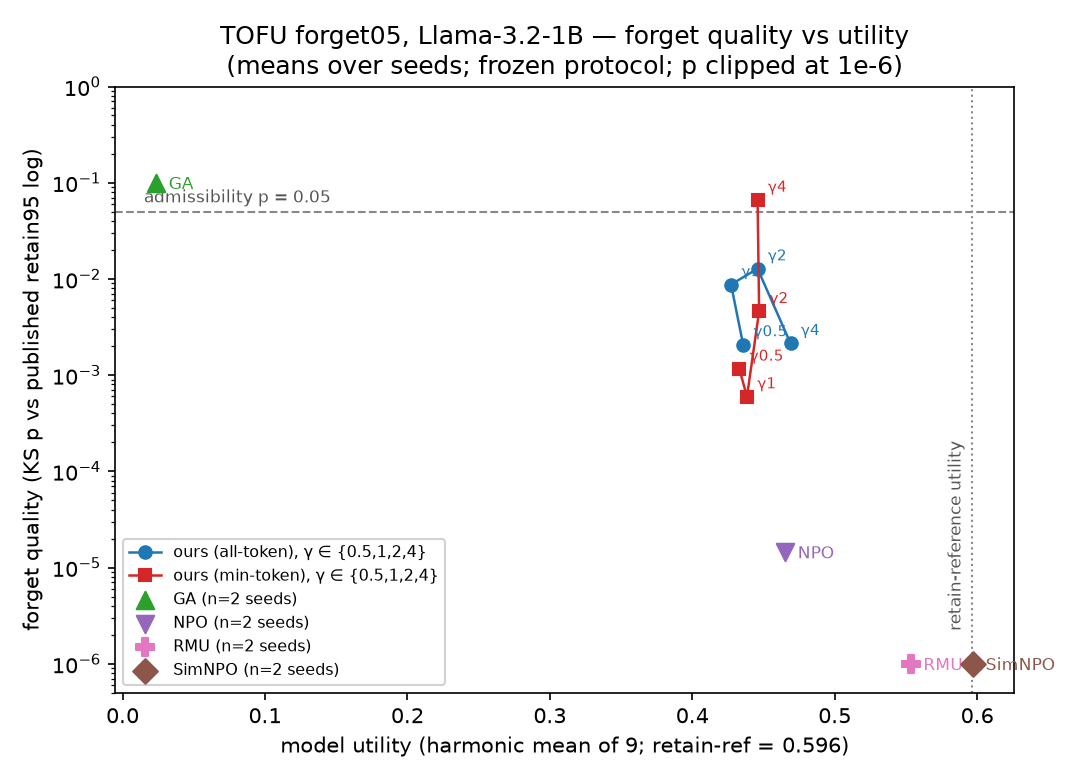
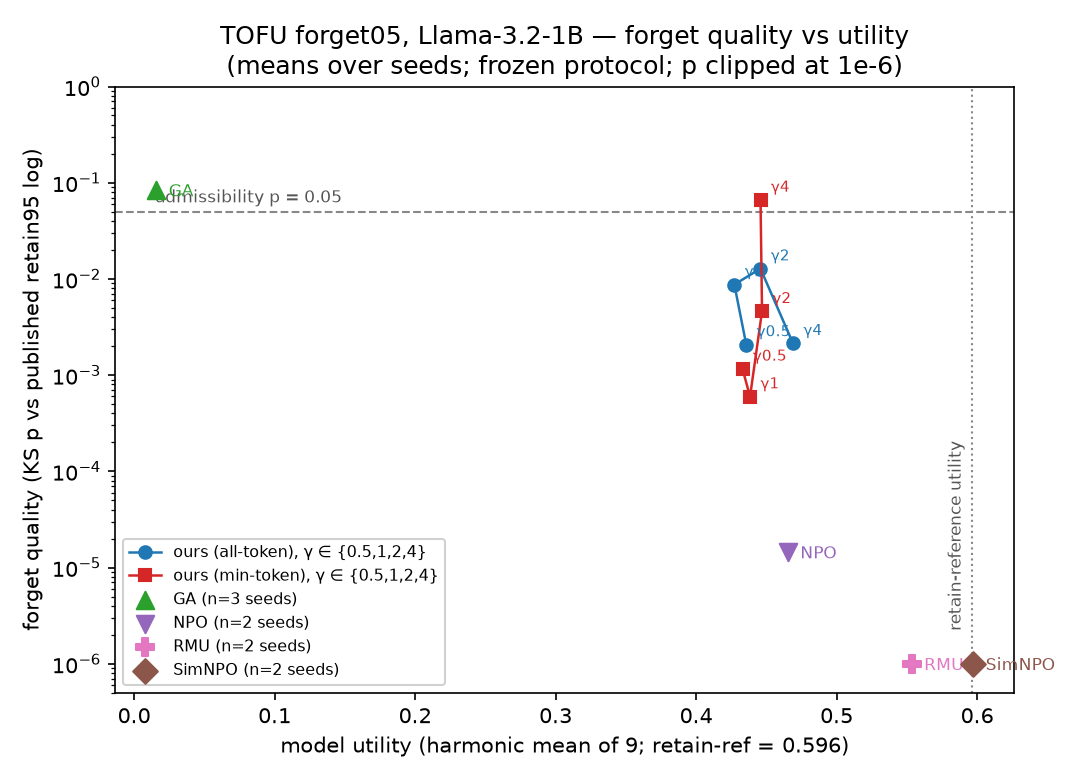
GA 3/3 seeds admissible (mean 0.084) at utility 0.03: lobotomy-pass fully robust

diff --git a/reports/remote/RESULTS.md b/reports/remote/RESULTS.md
@@ -28,7 +28,7 @@ steps: all-token 100, min-token 450 (per-scope calibration, amendment 3)
 
 | config | seeds | forget quality (KS p) | leakage (gen R-L) | model utility |
 |---|---|---|---|---|
-| gradascent | 2 | 0.1001 ± 0.0122 **✓** | 0.1958 ± 0.0113 | 0.0237 ± 0.0104 |
+| gradascent | 3 | 0.0841 ± 0.0301 **✓** | 0.1595 ± 0.0602 | 0.0158 ± 0.0170 |
 | npo | 2 | 0.0000 ± 0.0000 | 0.3186 ± 0.0033 | 0.4652 ± 0.0050 |
 | rmu | 2 | 0.0000 ± 0.0000 | 0.4372 ± 0.0046 | 0.5534 ± 0.0015 |
 | simnpo | 2 | 0.0000 ± 0.0000 | 0.7371 ± 0.0030 | 0.5972 ± 0.0022 |
